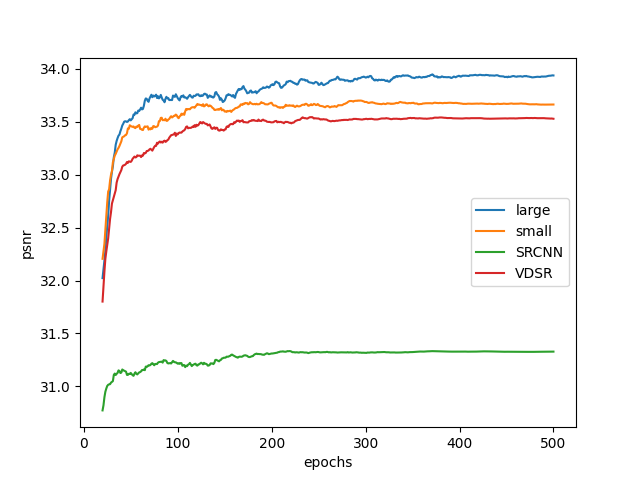
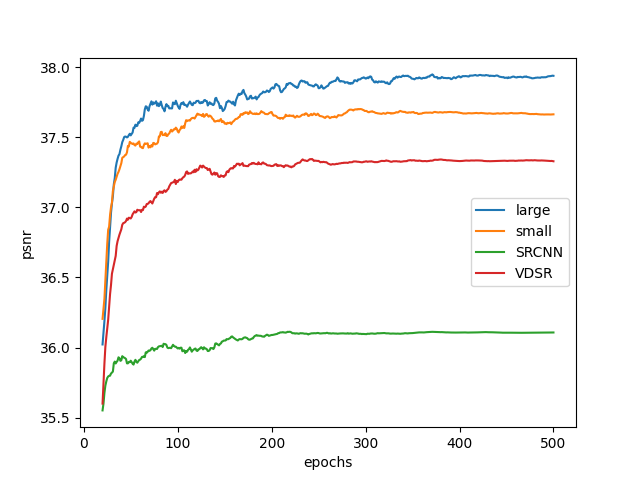
update

diff --git a/network.py b/network.py
@@ -219,6 +219,6 @@ if __name__ == "__main__":
     print("-" * 98)
     print("=" * 98)
 
-    model = MODEL_LARGE()
+    model = SRCNN()
     print(model.summary())
     #plot_model(model, show_shapes=True, to_file="model.png")

diff --git a/README.md b/README.md
@@ -19,14 +19,14 @@ The following model I implemented was Very Deep Super-Resolution ([VDSR](https:/
 
 My implementation improves upon the concept of residuals within VDSR by combining both global and local connections using an `Add` layer. Since this model is quite deep (50 Convolutional Layers), it takes a long time for the model to predict an image during inference. I created a smaller model that uses `Concatenate` layers to replace the `Add` layers, and although much smaller than the original model, it produces comparable results due to the density of connections inherent to concatenation layers.
 
-### Model Architectures
+### Model Architecture Comparison
 
-|Architectures|Parameters|
-|:-----------:|:--------:|
-|SRCNN		  |20,099    |
-|VDSR 		  |668,227   |
-|Small		  |2,012,611 |
-|Large		  |7,091,075 |
+| Architectures | Parameters | Number of Filters | Layers | Best SSIM               | Best PSNR                  |
+| ------------- | ---------- | ----------------- | ------ | ----------------------- | -------------------------- |
+| SRCNN         | 20,099     | 64-32-3           | 3      | 0.9389                  | 36.113                     |
+| VDSR          | 668,227    | 64-3              | 20     | 0.9488                  | 37.3448                    |
+| Small         | 2,012,611  | 64-3              | 20     | 0.9521                  | 37.7013                    |
+| Large         | 7,091,075  | 128-3             | 50     | <strong>0.9541</strong> | <strong>37.9479  </strong> |
 
 
 ### Architecture Performance
